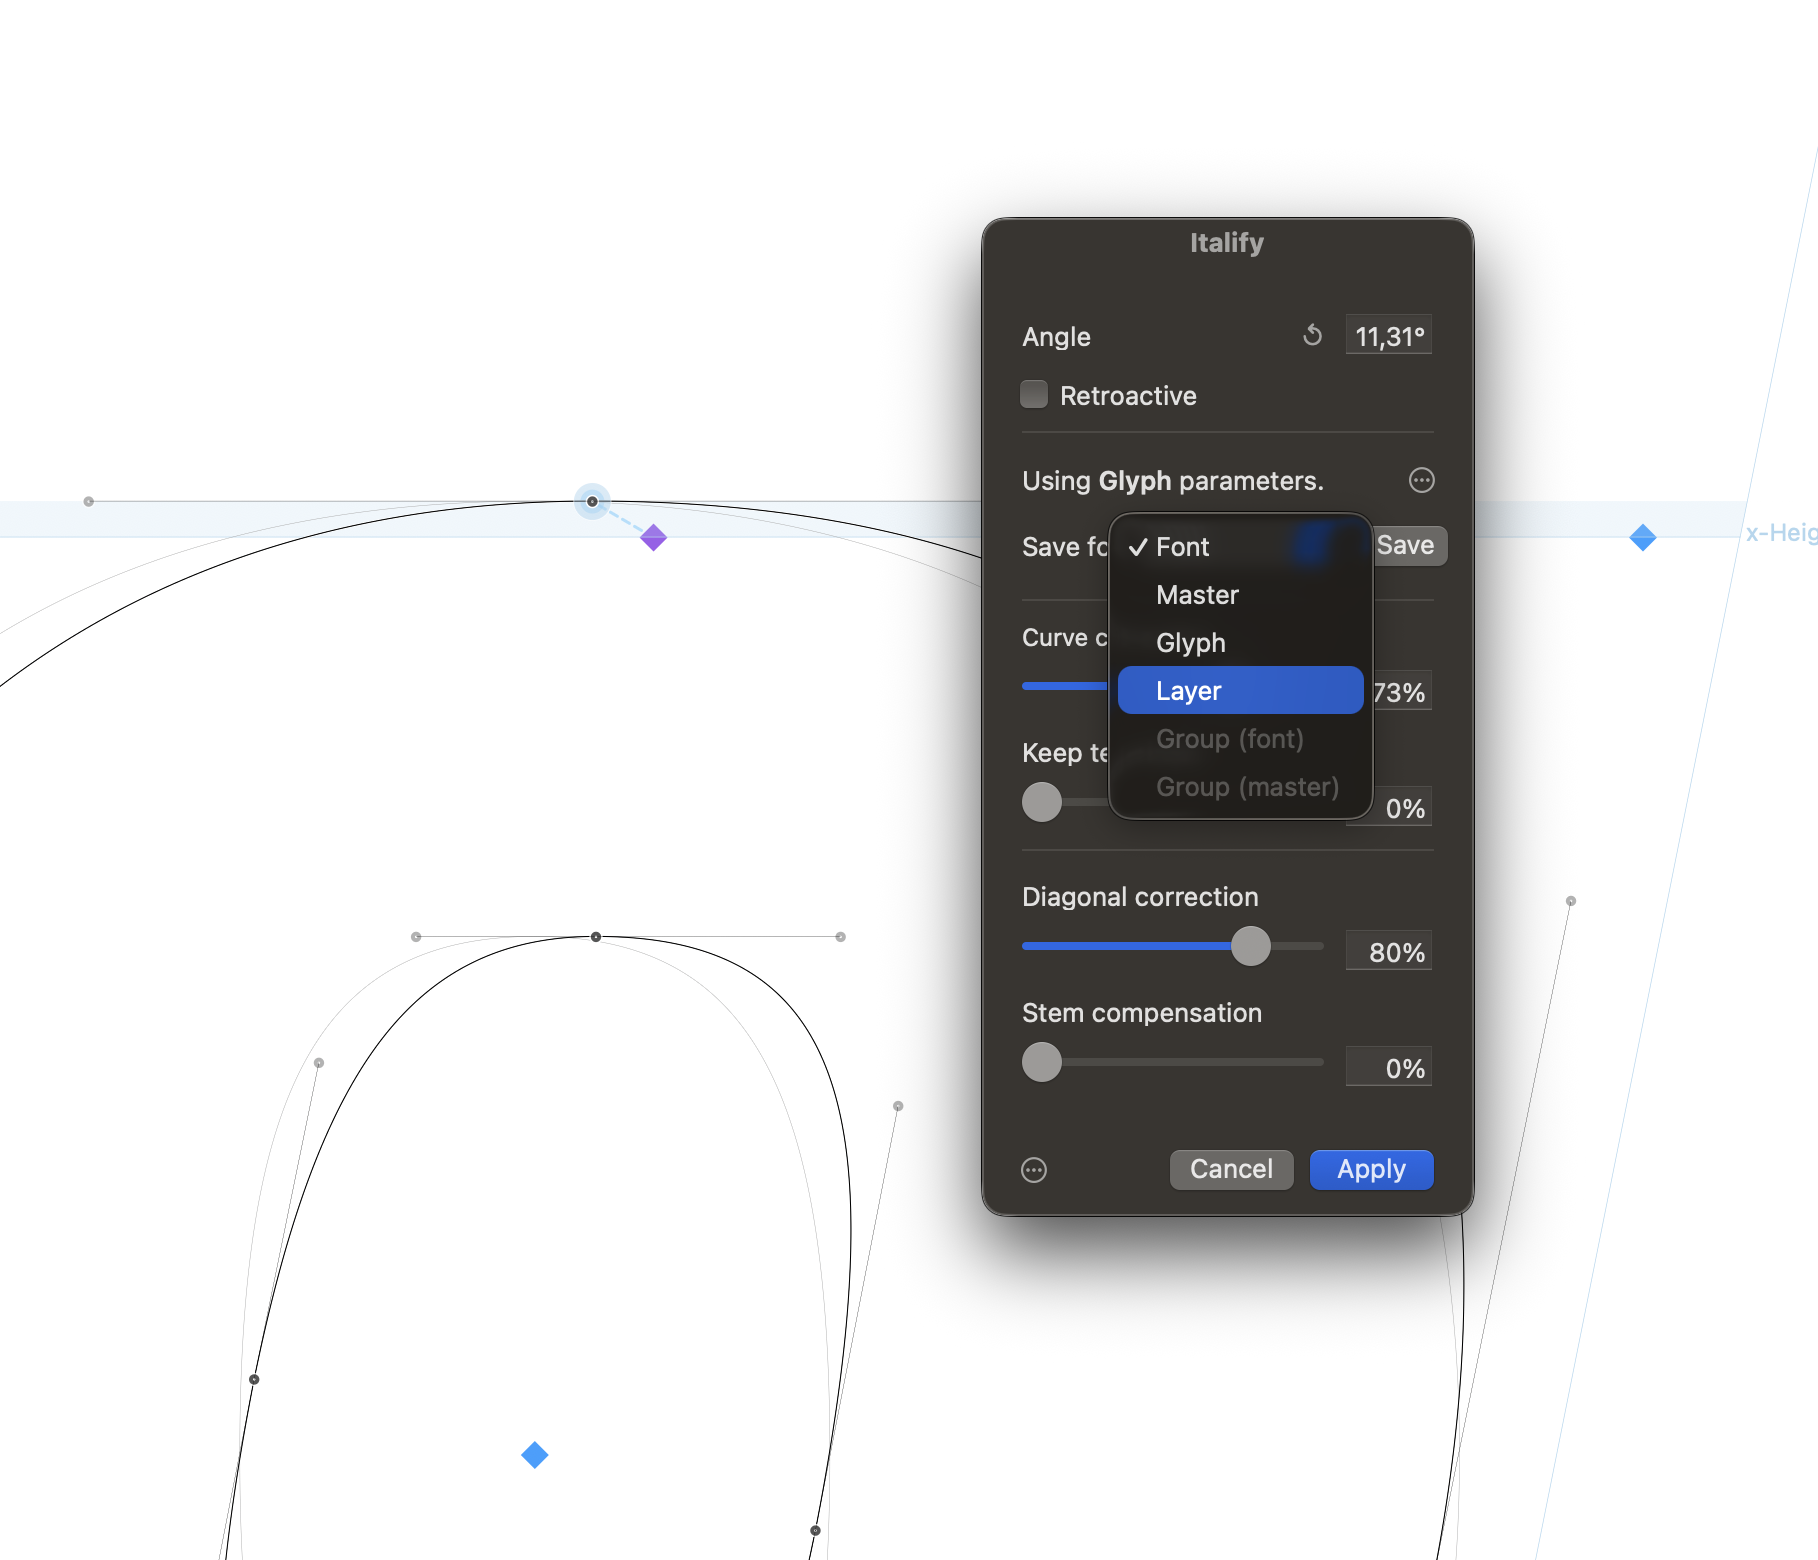
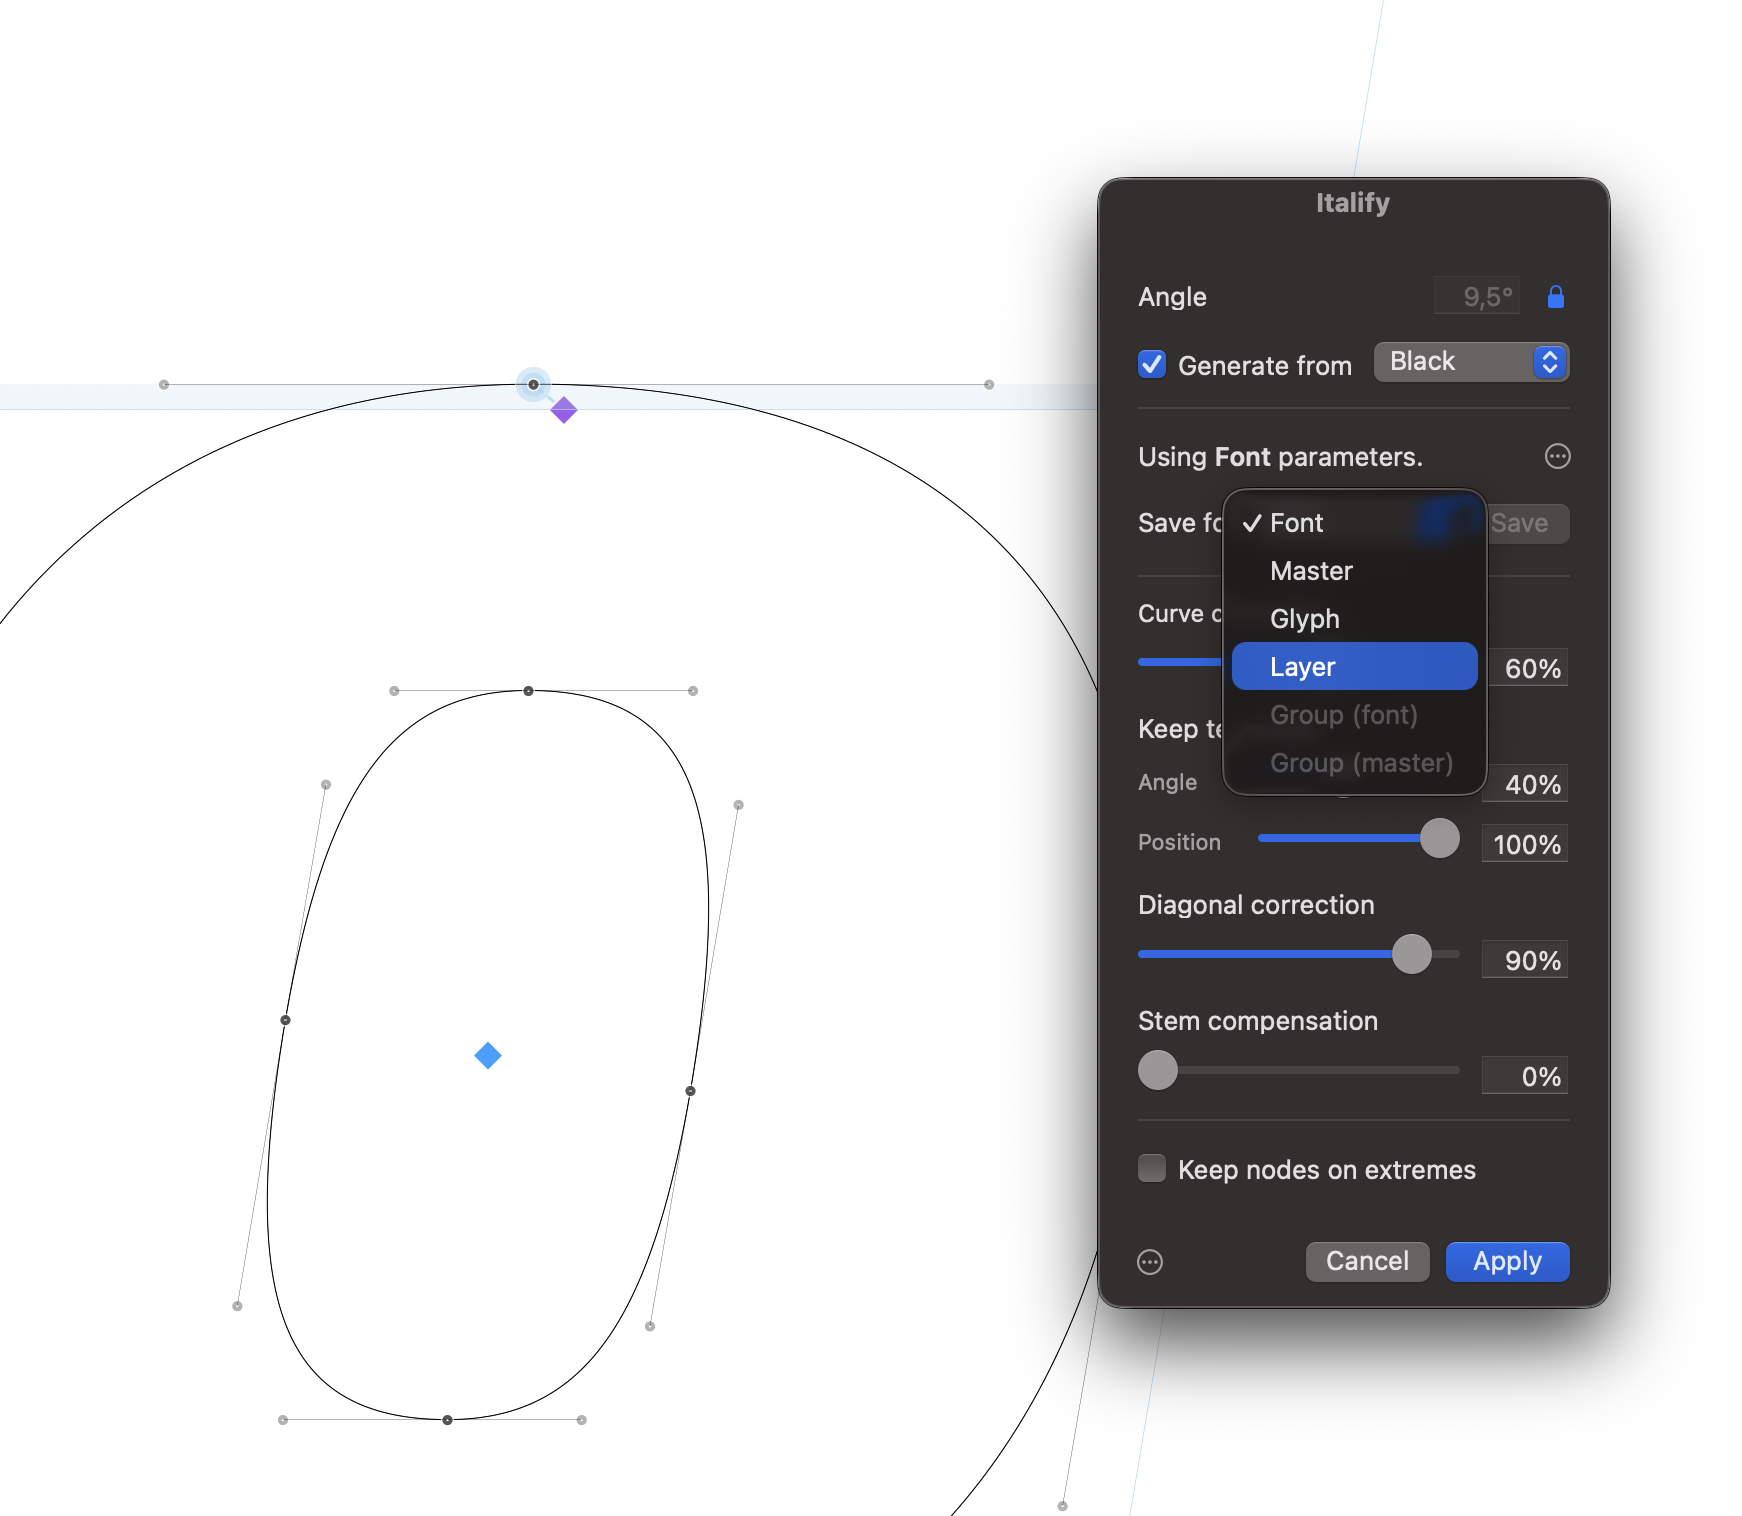
Doc updates

diff --git a/public/italify/content/handbook/filter.md b/public/italify/content/handbook/filter.md
@@ -8,15 +8,15 @@ Choose *Filter → Italify* with one or more glyphs open in Edit View. You can a
 ```annotated
 img: ../images/window.png
 alt: The Italify filter dialogue with the angle field and the correction sliders.
-note 14.5%: **Angle** – the slant to apply. [[↺]] reads the current master’s italic angle.
-note 19%: **Generate from** – rebuild this layer from another master’s outlines each time the filter runs.
-note 24%: **Saved parameters** – Use the same parameters for the whole font, single masters, glyphs, layers or groups.
-note 39.5%: **Curve correction** – rebalances curves against the shear’s distortion.
-note 49.5%: **Keep terminals** – preserves the cut of stroke endings: its *Angle* and its *Position* along the stroke.
-note 65.5%: **Diagonal correction** – corrects tagged diagonal stems’ width and angle.
-note 77%: **Stem compensation** – how much of a stem’s width change is restored.
-note 89%: **Keep nodes on extremes** – Attempts to keep nodes on orthogonal extremes.
-note 97%: The gear menu holds *Copy Filter Parameter* for [export](#export).
+note 11.5%: **Angle** – the slant to apply.
+note 19%: **Generate from** – select another master as the outline source.
+note 30%: **Saved parameters** – Use the same parameters for the whole font, single masters, glyphs, layers or groups.
+note 42%: **Curve correction** – rebalances curves against the shear’s distortion.
+note 54%: **Keep terminals** – preserves the cut of stroke endings: its *Angle* and its *Position* along the stroke.
+note 67.5%: **Diagonal correction** – corrects tagged diagonal stems’ width and angle.
+note 78%: **Stem compensation** – how much of a stem’s width change is restored.
+note 91%: **Keep nodes on extremes** – Attempts to keep nodes on orthogonal extremes.
+note 99%: The gear menu holds *Copy Filter Parameter* for [export](#export).
 ```
 
 ## Parameters {#parameters}

diff --git a/public/italify/content/handbook/installation.md b/public/italify/content/handbook/installation.md
@@ -2,13 +2,15 @@
 
 @lede Two clicks and a relaunch – then all of Italify is in place.
 
-1. Unzip `Italify.zip` and double-click the bundle for your Glyphs version – `ItalifyG3.glyphsPlugin` for Glyphs 3, `ItalifyG4.glyphsPlugin` for Glyphs 4. Glyphs installs it and asks to restart.
+1. Open up the plugin manager in your preferred Glyphs version. Search for Italify and install it.
 2. After relaunching you have all of Italify: the *Italify* entry in the *Filter* menu, the *Italify Tagger* in the Edit View toolbar (shortcut [[C]]), and the *Italify Groups* palette in the Window sidebar.
 
-Italify requires **Glyphs 3.2 or later** (use the G4 bundle in Glyphs 4).
+Italify is automatically updated through the plugin manager.
+
+Italify requires **Glyphs 3.2 or later**.
 
 ```screenshot
-img: ../images/bundle.png
+img: ../images/pluginManager.png
 alt: The Filter menu with the Italify entry, and the Edit View toolbar with the Italify Tagger icon selected.
 caption: After installing: the filter, with the tagger in the toolbar.
 ```

diff --git a/public/italify/content/handbook/workflow.md b/public/italify/content/handbook/workflow.md
@@ -66,7 +66,7 @@ Run *Glyph → Italify → [Auto-Link Anchors](glyph-menu)* over the selected gl
 Open *Filter → Italify*, press [[↺]] to adopt the master’s angle, and judge the four sliders against the live preview – or hold [[Space]]+[[Shift]] in the [tagger](tagger#preview) to flip between the working outline and the corrected result without applying anything. The [parameters](filter#parameters) chapter explains what each slider does; the defaults (everything at 100%, terminals at 0%) are the right starting point for most designs.
 
 ```screenshot
-img: ../images/filterPreview.png
+img: ../images/preview.png
 desc: The filter dialogue beside an Edit View glyph showing the live preview,
   mid-adjustment: one slider being dragged, the outline visibly responding.
 caption: Judge every parameter against the live preview before applying anything.
